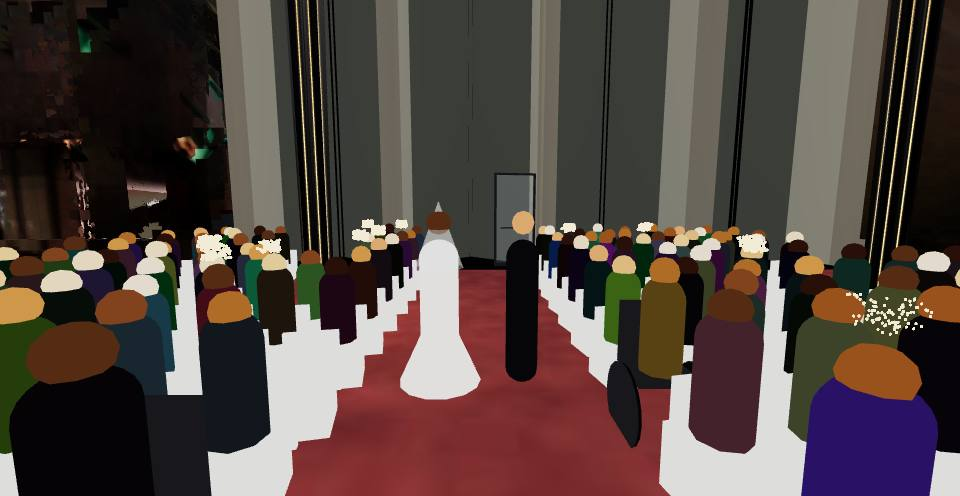
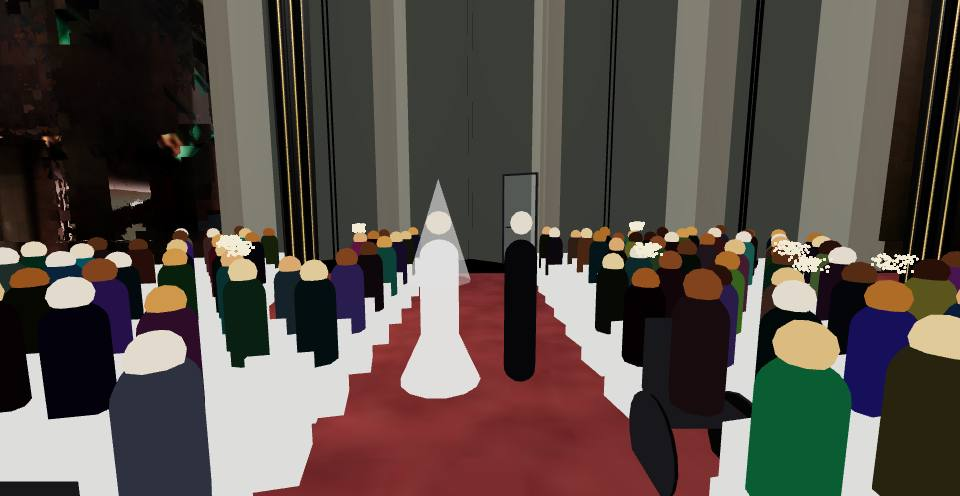
Shot 8 (Lloyd's note, V4): the rice rests on the carpet where it actually is. The photographed floor is not flat and sits 6 to 12 cm proud of the datum, so a fixed 6 cm put every grain under it and they vanished on landing; each grain now asks the floor mesh (a ray down at its landing spot, against 

diff --git a/index.html b/index.html
@@ -3156,6 +3156,14 @@ function fireColdSparks(){ const y0=FLOOR_Y||EVENT.N.origin.y; const uMid=EVENT.
 // WEDDING: the couple walk down the aisle and white petals rain over it
 // one handful of rice: thrown from a guest's hands, ballistic over the aisle, and it lies on the
 // runner where it fell. The couple walk through a corridor of these.
+// THE FLOOR'S OWN HEIGHT (Lloyd, shot 8 V4): the photographed carpet is not flat, it sits 6 to
+// 12 cm proud of the floor datum from place to place, so anything laid "on the floor" at one
+// offset sinks into it somewhere. The floor is a few hundred triangles of the scan, so a ray
+// straight down at the spot, against those meshes alone, is cheap and exact
+let floorMeshes=null; const _fRay=new THREE.Raycaster(), _fO=new THREE.Vector3(), _fD=new THREE.Vector3(0,-1,0);
+function floorAtXZ(x,z){ if(!floorMeshes){ if(!hallGroup)return FLOOR_Y+0.08; floorMeshes=[]; hallGroup.updateWorldMatrix(true,true);
+  hallGroup.traverse(o=>{ if(!o.isMesh||/column/i.test(o.name))return; o.geometry.computeBoundingBox(); const bb=o.geometry.boundingBox.clone().applyMatrix4(o.matrixWorld); if(bb.min.y>=FLOOR_Y-0.1&&bb.max.y<=FLOOR_Y+0.4)floorMeshes.push(o); }); }
+ _fO.set(x,FLOOR_Y+2,z); _fRay.set(_fO,_fD); const h=_fRay.intersectObjects(floorMeshes,false)[0]; return h?h.point.y:FLOOR_Y+0.08; }
 function riceToss(ox,oy,oz,tx,ty,tz,yf,obs){
  const n=90, pos=new Float32Array(n*3), vel=new Float32Array(n*3), lf=new Float32Array(n*2), hit=new Float32Array(n*4);
  for(let i=0;i<n;i++){
@@ -3169,8 +3177,10 @@ function riceToss(ox,oy,oz,tx,ty,tz,yf,obs){
   // so nothing ever rests on a head that then walks away and leaves it hanging in the air
   // (Lloyd's invisible boxes: the old cell map also caught grains in the air beside a head)
   // (Lloyd, V2) 6 cm up: the runner and the carpet's own rise took the grains at 2 cm
-  const ry=yf+0.06;
-  let tl=(vy+Math.sqrt(Math.max(0,vy*vy-19.6*(ry-sy))))/9.8, th=tl+1, hx=0, hy=0, hz=0;
+  // (Lloyd, V4) on the carpet where it actually is: the photographed floor sits 6 to 12 cm
+  // proud of the datum and is not flat, so the grain's own landing spot is asked (floorAtXZ)
+  let ry=yf+0.10, tl=(vy+Math.sqrt(Math.max(0,vy*vy-19.6*(ry-sy))))/9.8, th=tl+1, hx=0, hy=0, hz=0;
+  ry=floorAtXZ(sx+vx*tl,sz+vz*tl)+0.03; tl=(vy+Math.sqrt(Math.max(0,vy*vy-19.6*(ry-sy))))/9.8;
   if(obs&&obs.length){
    let ppy=sy;
    for(let mt=0.03;mt<tl;mt+=0.03){
@@ -3549,7 +3559,7 @@ function finaleStep(s){ if(!finale)finaleStart(); if(!finale)return; const F=fin
 // line splits off the glint word, ' / ' stacks a second row under the first, and a row in *...*
 // is stained glass ('*Gandel Hall* / Is brought to |light'). finale is the year under the triangle,
 // sculpture the tag over the marks (both built once, so they take the file as it was at load).
-const TOUR_TEXT={"rainbow-columns":[["A special space",0,4.4],["Carefully crafted over decades",4.4,8.8],["*Gandel Hall* / Is brought to |light",8.8,13.2]],"dinner":[["A place for community.",5.5,11]],"banquet":[["~Where / ~Rich history and modern tradition / ~Meet",2.5,13.5]],"party":[["A place to have fun!",2,8]],"party-celebrate":[["and celebrate amongst friends",2.3,8.5]],"standing":[["Somewhere for people to share their ideas",2,8]],"wedding-aisle":[["and to celebrate love",2,8]],"finale":[["",0,0]],"finale-top":[["GANDEL HALL",0,0]],"sculpture":[["BROUGHT TO LIGHT BY",0,0]]};
+const TOUR_TEXT={"rainbow-columns":[["A special space",0,4.4],["Carefully crafted over decades",4.4,8.8],["*Gandel Hall* / Is brought to |light",8.8,13.2]],"dinner":[["A place for community",5.5,11]],"banquet":[["~Where / ~Rich history and modern tradition / ~Meet",2.5,13.5]],"party":[["A place to have fun!",2,8]],"party-celebrate":[["and celebrate amongst friends",2.3,8.5]],"standing":[["Somewhere for people to share their ideas",2,8]],"wedding-aisle":[["and to celebrate love",2,8]],"finale":[["",0,0]],"finale-top":[["GANDEL HALL",0,0]],"sculpture":[["BROUGHT TO LIGHT BY",0,0]]};
 fetch('storyboard/titles.json?v='+Date.now()).then(r=>r.ok?r.json():null).then(j=>{ if(j)Object.assign(TOUR_TEXT,j); }).catch(()=>{});
 const TX=k=>(TOUR_TEXT[k]||[]).map(([t,a,b])=>[t,a,b]);
 const TX1=(k,d)=>((TOUR_TEXT[k]||[])[0]||[d])[0]||d;

diff --git a/tour-storyboard.md b/tour-storyboard.md
@@ -112,7 +112,7 @@ V4 (sent 01/09/2026 22:57:03):
 A place for community
 
 V5 (draft):
-
+[shot 2, 4.7 s] the string quartet should be on stage. Improve their models as well to be more accurate
 
 ---
 
@@ -239,7 +239,10 @@ Fade out at the end of this clip
 V4 (sent 01/09/2026 22:54:30):
 [shot 5, 2.3 s] the text should appear now, and be in the centre of the screen
 
-V5 (draft):
+V5 (sent 01/09/2026 23:09:55):
+[shot 5, 10.9 s] keep the people jumping excitedly during this scene
+
+V6 (draft):
 
 
 ---
@@ -295,7 +298,7 @@ V2 (sent 01/09/2026 22:47:37):
 The bride needs a proper veil, and then there should be a scene where they turn to each other, the veil is lifted and they kiss. The groom holds onto the bride and dips her
 
 V3 (draft):
-
+[shot 7, 3.0 s] the veil should not be a cone. It should have a smooth top
 
 ---
 
